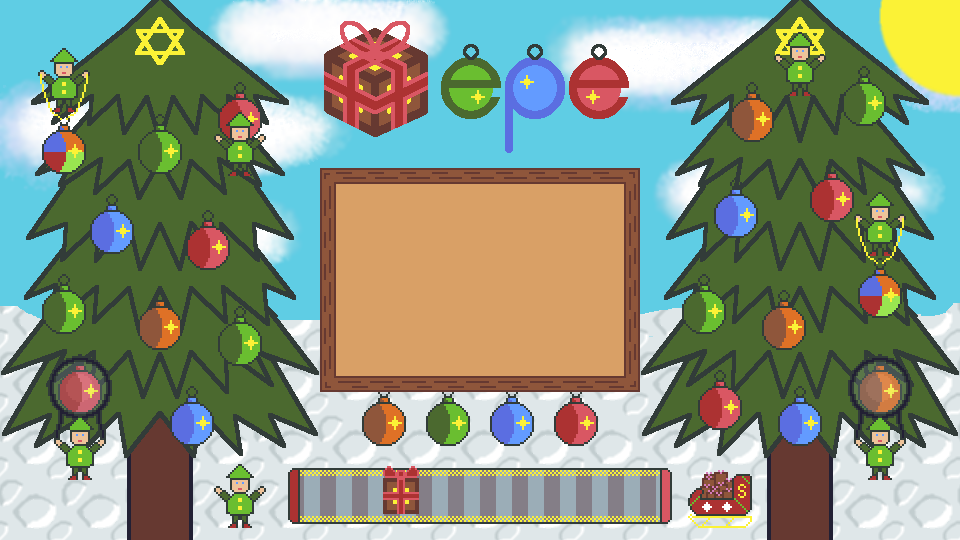
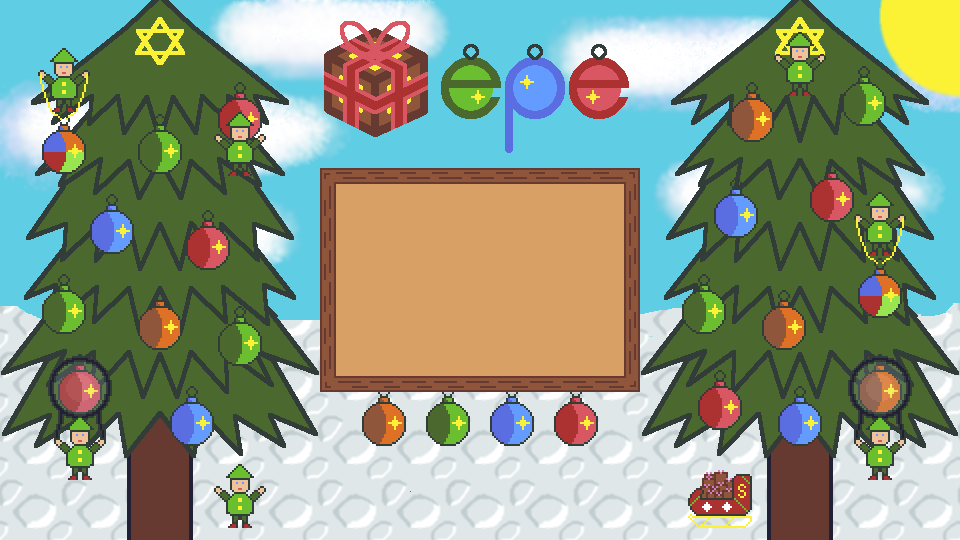
Added level select screen

Changed region(s): [[0.2812, 0.8593, 0.7188, 0.9778]]

diff --git a/src/LevelSelectScene.ts b/src/LevelSelectScene.ts
@@ -1,0 +1,122 @@
+import Phaser from 'phaser'
+
+const PRESENT_START_X = 288;
+const PRESENT_END_X = 666;
+
+export default class LevelSelectScene extends Phaser.Scene {
+	present: Phaser.GameObjects.Sprite | undefined;
+	level_selected: number = 0;
+	exit_selected: boolean = false;
+	level_number_sprites: { [id: number]: Phaser.GameObjects.Sprite } = {};
+	level_highlighted_number_sprites: { [id: number]: Phaser.GameObjects.Sprite } = {};
+
+    constructor() {
+		super('level-select')
+	}
+
+	preload() {
+		this.load.image("level_select", "assets/LevelSelect.png");
+		this.load.spritesheet("animated_long_belt", "assets/Long_Belt_Animated.png", { frameWidth: 192, frameHeight: 32 });
+		this.load.image("present", "assets/Present.png");
+		this.load.spritesheet("level_select_numbers", "assets/Numbers.png", { frameWidth: 32, frameHeight: 32 });
+		this.load.image("exit_door", "assets/Exit_Door.png");
+	}
+
+	add_number_images()
+	{
+		for (let i = 0; i < 30; i++)
+		{
+			const column = i % 10;
+			const row = Math.floor(i / 10);
+			const frame = column + (row * 20);
+
+			const level_sprite = this.add.sprite(120 + (column * 72), 192 + (row * 80), "level_select_numbers", frame).setOrigin(0, 0).setScale(2).setInteractive();
+			this.level_number_sprites[i] = level_sprite;
+
+			const level_highlighted_sprite = this.add.sprite(120 + (column * 72), 192 + (row * 80), "level_select_numbers", frame + 10).setOrigin(0, 0).setScale(2).setInteractive();
+			this.level_highlighted_number_sprites[i] = level_highlighted_sprite;
+
+			if (this.level_selected === i)
+			{
+				level_highlighted_sprite.setVisible(true);
+				level_sprite.setVisible(false);
+			}
+			else
+			{
+				level_highlighted_sprite.setVisible(false);
+				level_sprite.setVisible(true);
+			}
+
+			level_sprite.on("pointerdown", () => {
+				this.update_numbers(i);
+			}, this);
+			level_highlighted_sprite.on("pointerdown", () => {
+				this.update_numbers(i);
+			}, this);
+
+			level_sprite.on("pointerup", () => {
+				if (this.level_selected == i)
+				{
+					this.start_level(i);
+				}
+			}, this);
+			level_highlighted_sprite.on("pointerup", () => {
+				if (this.level_selected == i)
+				{
+					this.start_level(i);
+				}
+			}, this);
+		}
+	}
+
+	start_level(level: number)
+	{
+		console.log("Starting level ", level);
+	}
+
+	update_numbers(new_level_selected: number)
+	{
+		this.level_number_sprites[this.level_selected].setVisible(true);
+		this.level_highlighted_number_sprites[this.level_selected].setVisible(false);
+
+		this.level_highlighted_number_sprites[new_level_selected].setVisible(true);
+		this.level_number_sprites[new_level_selected].setVisible(false);
+		this.level_selected = new_level_selected;
+	}
+
+    create() {
+		const level_select_image = this.add.image(0, 0, 'level_select').setOrigin(0, 0)
+		const exit_door = this.add.image(0, level_select_image.height - 64, "exit_door").setOrigin(0, 0).setScale(2).setInteractive();
+
+		exit_door.on("pointerdown", () => {
+			this.exit_selected = true;
+		}, this);
+		exit_door.on("pointerup", () => {
+			if (this.exit_selected)
+			{
+				this.scene.start("start");
+			}
+		}, this);
+		this.input.on("pointerup", () => {
+			this.exit_selected = false;
+		});
+		this.add_number_images();
+		this.anims.create({
+			key: "menu_belt",
+			frames: this.anims.generateFrameNumbers("animated_long_belt", {start: 0, end: 7}),
+			frameRate: 30,
+			repeat: -1,
+		})
+
+		this.add.sprite(288, 464, "animated_long_belt").setOrigin(0, 0).setScale(2).play("menu_belt");
+		this.present = this.add.sprite(PRESENT_START_X, 490, "present").setScale(2);
+    }
+
+    update(time: number, delta: number): void {
+		this.present?.setX(this.present?.x + (delta / 30) * 4.125);
+		if (this.present && this.present?.x > PRESENT_END_X)
+		{
+			this.present?.setX(PRESENT_START_X);
+		}
+	}
+}

diff --git a/src/StartScene.ts b/src/StartScene.ts
@@ -1,17 +1,23 @@
 import Phaser from 'phaser'
 import { FONT_FAMILY, HIGHLIGHTED_TEXT, START_MENU_FONT_SIZE, TEXT } from './constants';
 
+const PRESENT_START_X = 288;
+const PRESENT_END_X = 666;
+
 export default class StartScene extends Phaser.Scene {
 	start_text: Phaser.GameObjects.Text | undefined;
 	options_text: Phaser.GameObjects.Text | undefined;
 	quit_text: Phaser.GameObjects.Text | undefined;
+	present: Phaser.GameObjects.Sprite | undefined;
 
 	constructor() {
-		super('hello-world')
+		super('start')
 	}
 
 	preload() {
-		this.load.image('start', 'assets/StartScreen.png');
+		this.load.image("start", "assets/StartScreen.png");
+		this.load.spritesheet("animated_long_belt", "assets/Long_Belt_Animated.png", { frameWidth: 192, frameHeight: 32 });
+		this.load.image("present", "assets/Present.png");
 	}
 
 	// Highlight the menu option the user is about to click
@@ -117,11 +123,29 @@ export default class StartScene extends Phaser.Scene {
 		this.quit_text.on('pointerdown', () => {
 			this.highlight_menu_option(this.quit_text);
 		}, this);
+
+		this.anims.create({
+			key: "menu_belt",
+			frames: this.anims.generateFrameNumbers("animated_long_belt", {start: 0, end: 7}),
+			frameRate: 30,
+			repeat: -1,
+		})
+
+		this.add.sprite(288, 464, "animated_long_belt").setOrigin(0, 0).setScale(2).play("menu_belt");
+		this.present = this.add.sprite(PRESENT_START_X, 490, "present").setScale(2);
+	}
+
+	update(time: number, delta: number): void {
+		this.present?.setX(this.present?.x + (delta / 30) * 4.125);
+		if (this.present && this.present?.x > PRESENT_END_X)
+		{
+			this.present?.setX(PRESENT_START_X);
+		}
 	}
 
 	start_game()
 	{
-		console.log("start!");
+		this.scene.start("level-select");
 	}
 
 	open_options()

diff --git a/src/main.ts b/src/main.ts
@@ -1,8 +1,9 @@
 import Phaser from 'phaser'
 
 import StartScene from './StartScene'
+import LevelSelectScene from './LevelSelectScene';
 
-const config = {
+const config: Phaser.Types.Core.GameConfig = {
 	type: Phaser.AUTO,
 	parent: 'app',
 	width: 960,
@@ -14,7 +15,8 @@ const config = {
 			gravity: { y: 200 },
 		},
 	},
-	scene: [StartScene],
+	scene: [StartScene, LevelSelectScene],
+	pixelArt: true,
 	scale: {
 		parent: 'app',
 		mode: Phaser.Scale.FIT,
